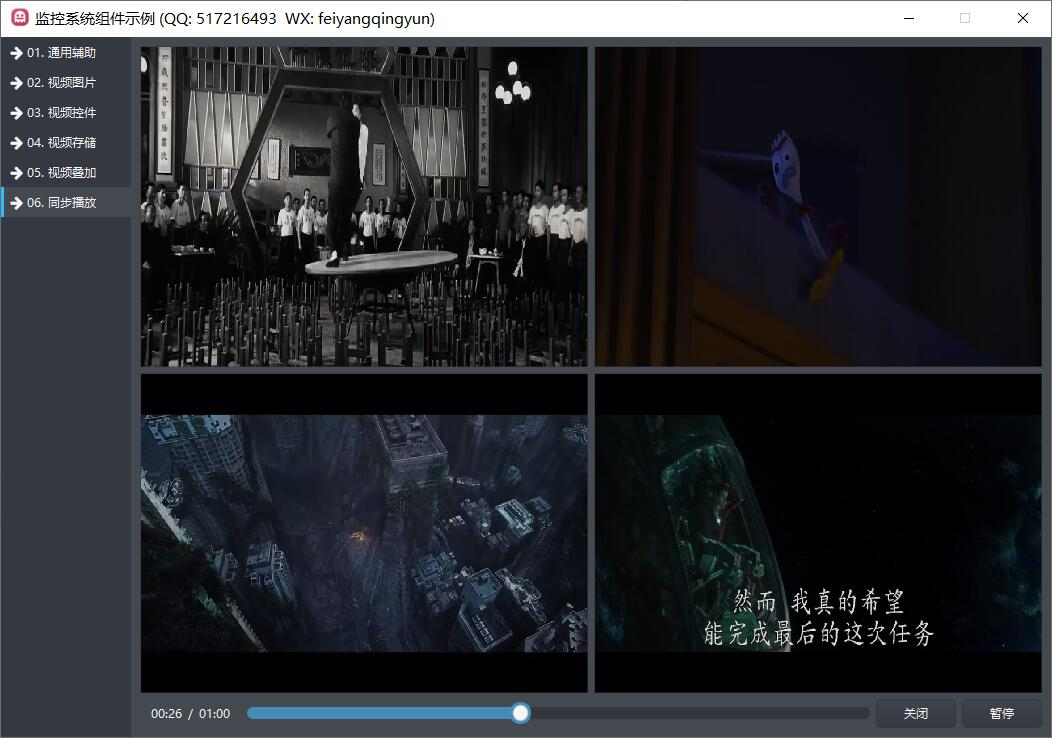
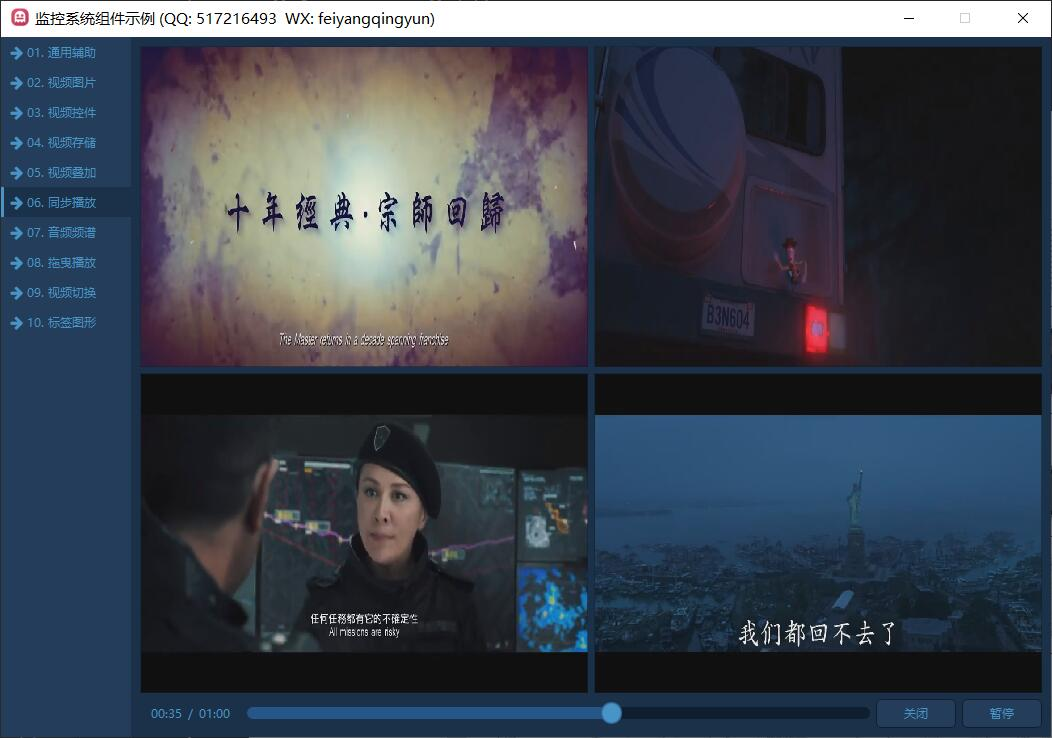
更新文档

diff --git a/snap_video_system/readme.md b/snap_video_system/readme.md
@@ -161,12 +161,23 @@ https://pan.baidu.com/s/13LDRu6mXC6gaADtrGprNVA  提取码: ujm7。
 #### 0.7.3 视频文件
  ![](snap/0-7-4.jpg)
 
-**万能办法，用谷歌或者谷歌内核的浏览器，打开时光网http://www.mtime.com/ ，随便打开个视频，这里一般是预告片，按F12切换到审查元素，顶部切换到网络，选中媒体，刷新网页，按照尺寸排列，最大的那个MP4文件就是，鼠标右键复制地址，这个地址就是完整的网络地址。**
+**万能办法，用谷歌或者谷歌内核的浏览器，打开时光网 http://www.mtime.com/ ，随便打开个视频，这里一般是预告片，按F12切换到审查元素，顶部切换到网络，选中媒体，刷新网页，按照尺寸排列，最大的那个MP4文件就是，鼠标右键复制地址，这个地址就是完整的网络地址。**
 
-1. http://vfx.mtime.cn/Video/2019/02/04/mp4/190204084208765161.mp4
+1. http://vfx.mtime.cn/Video/2021/11/16/mp4/211116131456748178.mp4
 2. http://vfx.mtime.cn/Video/2019/03/19/mp4/190319212559089721.mp4
 3. http://vfx.mtime.cn/Video/2019/03/17/mp4/190317150237409904.mp4
 4. http://vfx.mtime.cn/Video/2019/03/14/mp4/190314223540373995.mp4
+5. http://vfx.mtime.cn/Video/2023/03/09/mp4/230309152143524121.mp4
+6. http://vfx.mtime.cn/Video/2023/03/07/mp4/230307085324679124.mp4
+7. http://vfx.mtime.cn/Video/2022/07/18/mp4/220718132929585151.mp4
+8. http://vfx.mtime.cn/Video/2022/12/17/mp4/221217153424902164.mp4
+9. http://vfx.mtime.cn/Video/2022/07/04/mp4/220704110656040153.mp4
+10. http://vfx.mtime.cn/Video/2021/02/08/mp4/210208150307073134.mp4
+11. http://vfx.mtime.cn/Video/2021/05/11/mp4/210511114524329144.mp4
+12. http://vfx.mtime.cn/Video/2021/04/20/mp4/210420113022586184.mp4
+13. http://vfx.mtime.cn/Video/2021/03/13/mp4/210313111010421158.mp4
+14. http://vfx.mtime.cn/Video/2020/01/15/mp4/200115125943120574.mp4
+15. http://vfx.mtime.cn/Video/2019/09/19/mp4/190919093845618674.mp4
 
 #### 0.7.4 网友提供
 1. rtmp://live.yihtc.com:10935/hls/stream_3
@@ -204,7 +215,13 @@ https://pan.baidu.com/s/13LDRu6mXC6gaADtrGprNVA  提取码: ujm7。
 - 日期时间说明：先转换时间戳，1970年到该时间经过的秒数。
 
 ### 0.8 版本说明
+
+
 #### 0.8.1 精益求精
+
+**后期规划**
+1. 摄像机信息表的用户信息字段用起来，视频流地址不带用户信息，主动加入用户信息构建最终地址应用。
+2. 用户密码密文存储，防止泄露。
 
 **V20230201**
 1. 新增天气预报模块开关。
@@ -213,7 +230,16 @@ https://pan.baidu.com/s/13LDRu6mXC6gaADtrGprNVA  提取码: ujm7。
 4. 设备搜索模块在单播的时候增加厂家为空则先获取设备信息获取到制造商名称并自动填入。
 5. 内核vlc增加图片和文字水印功能，从源头处理。
 6. 内核mpv增加文字水印功能。
-7. 
+7. 内核ffmpeg增加网络访问视频文件头部消息user_agent=Mozilla，有些视频网站根据这个头部消息过滤不让ffmpeg访问。
+8. onvif单播搜索增加指定地址不存在的过滤。
+9. 增加对显卡禁用环境的识别，自动切换采用Qt::AA_UseOpenGLES，否则在禁用显卡环境中无法正常使用opengl。
+10. 增加当处于OpenGLES绘制下自动将硬解码改成none，防止无法正常显示视频画面。
+11. onvif组件搜索功能增加错误提示，比如绑定组播失败、单播地址不通等提示。
+12. 无人机移动演示模块增加过滤，还没有初始化好就不触发js交互。
+13. 增加对虚拟机环境的识别，自动切换采用Qt::AA_UseOpenGLES，否则在虚拟机中硬解码下无法使用AA_UseDesktopOpenGL。
+14. 录像计划批量按钮增加先清空再批量，否则通道数不一致。
+15. 本地回放等界面增加全选、全不选按钮，用于对查询出来的视频文件全部选中和不选中。
+16. 打包文件增加了wenquanyi.ttf字体文件，由于ffmpeg用到了滤镜，为了支持中文正确显示，依赖指定的中文字体文件，放到可执行文件同一目录即可。
 
 **V20230108**
 1. 内核ffmpeg实现了各种OSD标签和图形直接绘制到帧上，保存也带了对应的标签信息，之前是绘制在遮罩层上。
@@ -2447,6 +2473,26 @@ if (type == 1) {
 
 演示如何同步播放多个视频，切换进度条自动全部切换播放进度。
 
+#### 12.3.7 音频频谱
+ ![](snap/12-3-7.jpg)
+
+演示如何关联视频声音左右通道频谱信号，界面中音量控件实时显示当前的左右通道音量值。
+
+#### 12.3.8 拖曳播放
+ ![](snap/12-3-8.jpg)
+
+演示关联拖曳文件信号，识别本地文件拖曳到视频控件中播放。
+
+#### 12.3.9 视频切换
+ ![](snap/12-3-9.jpg)
+
+演示如何无缝切换打开不同视频，避免关闭后打开中间产生的空白缝隙。
+
+#### 12.3.10 标签图形
+ ![](snap/12-3-10.jpg)
+
+演示如何添加各种osd标签信息和各种图形信息，osd标签信息可以设置字体、颜色、位置等，图形信息可以是矩形、三角形、多边形、圆形等。都支持批量多个添加。
+
 ### 12.4 人工智能集成
 
 
@@ -2469,6 +2515,10 @@ if (type == 1) {
  ![](snap/13-3-2.jpg)
 
 现在大部分厂家的NVR也逐渐支持onvif，并将每个通道都可以单独列出来。
+
+ ![](snap/13-3-3.jpg)
+
+切换到ptz页面可以进行云台控制和预置位管理。
 
 ### 13.4 报警输入设置
  ![](snap/13-4-1.jpg)
@@ -2504,7 +2554,7 @@ if (type == 1) {
 
 如果在数据库设置中选择了mysql数据库，需要对mysql数据库做个设置，就是将编码设置成utf8，已设置可以跳过，不然很可能数据库无法正常使用。
 
-32位的Qt程序，带对应32位的libmysql动态库，可以访问32/64位的mysql数据库，64位的也是一样可以访问32/64位的mysql数据库，只需要带上对应位数的动态库就行。查看mysql是32位还是64位命令 mysql.exe -V。
+32位的Qt程序，带对应32位的libmysql动态库（对应文件是libmysql.dll，如果是64位的则需要将libmysql64.dll重命名为libmysql.dll），可以访问32/64位的mysql数据库，64位的也是一样可以访问32/64位的mysql数据库，只需要带上对应位数的动态库就行。查看mysql是32位还是64位命令 mysql.exe -V。
  ![](snap/13-6-2.jpg)
 
 ### 13.7 打开USB摄像头
@@ -2651,3 +2701,14 @@ win32:LIBS += -L$$path/oci/lib/msvc -loci
 
 8. 以上写法同时支持mingw和msvc，其他系统编译过程也是类似。编译完成后默认会在你当前源码所在盘符的根目录下，会出现plugins目录，里面sqldrivers目录下就是对应编译生成好的插件动态库。
 9. 默认oracle的插件驱动代码是按照oracle12的函数写的，如果链接的是oracle11，则需要改动两行代码才能编译成功。打开qsql_oci.cpp文件大概在1559行代码左右，有个OCIBindByPos2函数改成OCIBindByPos，下面还有一行bindColumn.lengths改成(ub2*)bindColumn.lengths。
+
+### 13.15 端口映射
+可以通过端口映射，外网访问摄像头或者NVR等，基本步骤如下。
+1. 进入到路由器配置界面，查看分配的外网IP地址，记下来。
+2. 进入到端口映射配置界面，不同路由器位置不一样，可以找找端口映射之类的字眼，也可能叫虚拟服务器。
+3. 添加对应的端口映射信息，外部端口对应外部访问该设备的端口，内部端口对应之前内网访问该设备的端口。
+4. 在设备搜索那边指定设备填入IP地址和端口，单击单播搜索按钮，会自动搜索到设备的onvif地址，然后填入onvif用户信息，此时再去单击获取所有，如果有返回信息则表示正常。
+
+ ![](snap/13-15-1.jpg)
+ ![](snap/13-15-2.jpg)
+ ![](snap/13-15-3.jpg)
